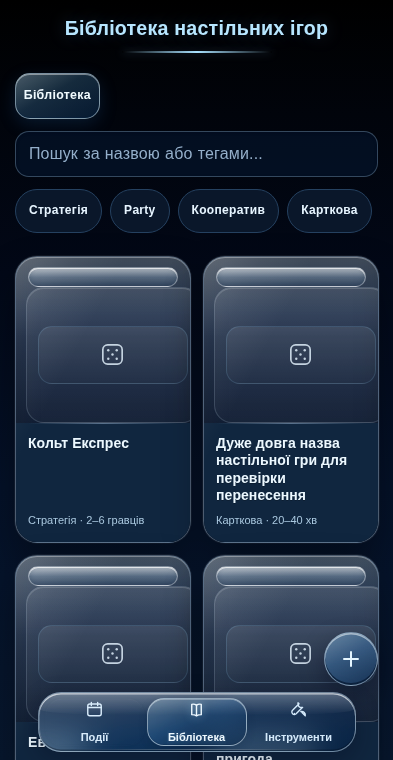
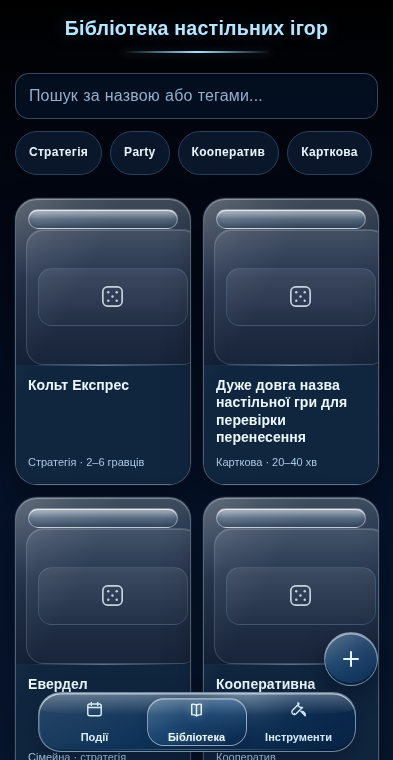
Add files via upload

diff --git a/index.html b/index.html
@@ -5824,10 +5824,6 @@ if (!window.Telegram?.WebApp) {
 <div class="view" id="view-library">
   <header>Бібліотека настільних ігор</header>
 
-  <div class="lib-subtabs">
-    <button class="lib-subtab-btn active" data-lib="games">Бібліотека</button>
-  </div>
-
   <div class="lib-mode active" id="libmode-games">
     <div class="lib-search-row">
       <input type="text" class="lib-search-input" id="librarySearch" placeholder="Пошук за назвою або тегами...">
@@ -10161,9 +10157,11 @@ function showMainView(viewId) {
 function openToolsHub() { showMainView('view-tools'); }
 
 function openLibraryMode(mode = 'games') {
+  // The library has one content view; legacy links all open it directly.
+  document.querySelectorAll('#view-library .lib-mode').forEach(el =>
+    el.classList.toggle('active', el.id === 'libmode-games')
+  );
   showMainView('view-library');
-  // v5.3.29: Only the public library is visible; old links return safely.
-  document.querySelector('.lib-subtab-btn[data-lib="games"]')?.click();
 }
 
 function friendlyActivityTime(value) {

diff --git a/test_library_cleanup.py b/test_library_cleanup.py
@@ -4,7 +4,8 @@ from playwright.sync_api import sync_playwright
 
 folder=Path(__file__).parent
 html=(folder/'index.html').read_text('utf-8')
-assert html.count('class="lib-subtab-btn active" data-lib="games"')==1
+assert html.count('class="lib-subtab-btn active" data-lib="games"')==0
+assert '<div class="lib-subtabs">' not in html
 for mode in ('wishlist','history','stats'):
     assert f'class="lib-subtab-btn" data-lib="{mode}"' not in html
 assert 'class="library-discovery" aria-label="Ігровий компас"' not in html
@@ -26,8 +27,8 @@ with sync_playwright() as pw:
         page.on('pageerror',lambda ex:errors.append(str(ex)))
         page.set_content(html,wait_until='domcontentloaded')
         page.locator('.nav-btn[data-view="view-library"]').click()
-        assert page.locator('.lib-subtab-btn').count()==1
-        assert page.locator('.lib-subtab-btn[data-lib="games"]').is_visible()
+        assert page.locator('#view-library .lib-subtabs').count()==0
+        assert page.locator('#view-library .lib-subtab-btn').count()==0
         assert page.locator('.library-discovery').count()==0
         assert page.locator('#gameModerationRow').count()==0
         assert page.locator('#librarySearch').is_visible()
